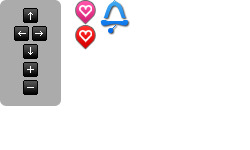
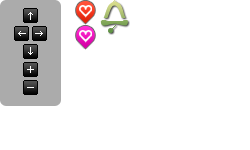
sync colors with branding

Changed region(s): [[0.28, 0.0, 0.392, 0.32], [0.392, 0.0, 0.532, 0.24]]

diff --git a/htdocs/t/branding/2012.07/branding.css b/htdocs/t/branding/2012.07/branding.css
@@ -90,16 +90,20 @@ html.cocktail-groups-section #common-footer .about-menu .link.cocktail-groups
 #main-content .description .summary i { background-repeat: no-repeat; background-image: url(common.png); }
 
 /* bars.css */
+#bars-page .bar-mini.new a .label,
+#bars-page .bar-mini.new a .bar-name { background-color: rgba(101,178,0,0.7); }
 #sort-menu .bars-select dt,
 #sort-menu .bars-select dd ul li.selected,
-#sort-menu .bars-select dd ul li:hover { color: #40aaf1; }
+#sort-menu .bars-select dd ul li:hover { color: #83cb26; }
 #map .point .icon,
 #map .position-control,
 #mobile-bar { background-image: url(bars-common.png); }
 #map .point .title { color: #fff; }
-#map .point .point-name { color: #ff4ea5; }
-#map .point.selected .point-name { color: #ff2929; }
+#map .point .point-name { color: #fb351b; }
+#map .point.selected .point-name { color: #f216c1; }
 
+/* bar.css */
+#main-column .info .block .head a { color: #83cb26; }
 
 /* combinator.css */
 #output .help-line .hint { color: #ae0000; }

diff --git a/htdocs/t/bars/bars.css b/htdocs/t/bars/bars.css
@@ -10,8 +10,6 @@ html {overflow-y: scroll;}
 .bar-mini a { display: block; position:relative; width: 290px; height: 200px; background-position: 0 0; color: #fff; }
 .bar-mini a .label,
 .bar-mini a .bar-name { position: absolute; left: 0; top: 161px; right: 0px; height: 30px; padding: 9px 15px 0px; font-size: 13px; background-color: rgba(0,0,0,0.6); }
-.bar-mini.new a .label,
-.bar-mini.new a .bar-name { background-color: rgba(255,42,146,0.7); }
 
 .bar-mini a,
 .bar-mini a .label,
